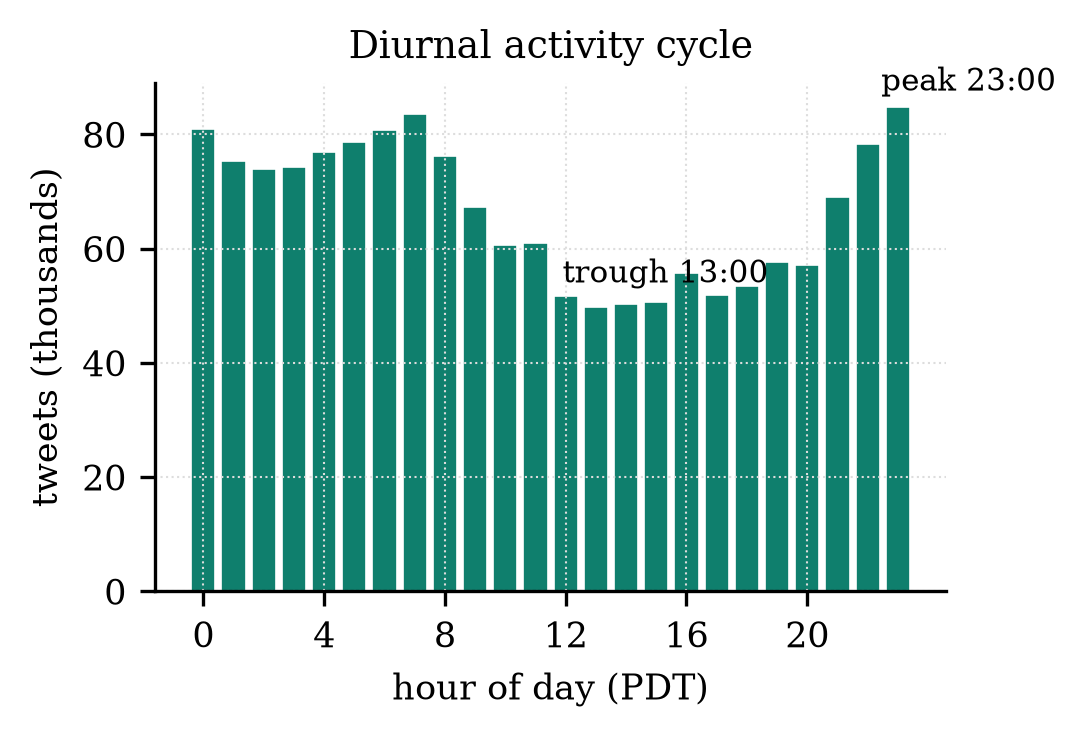
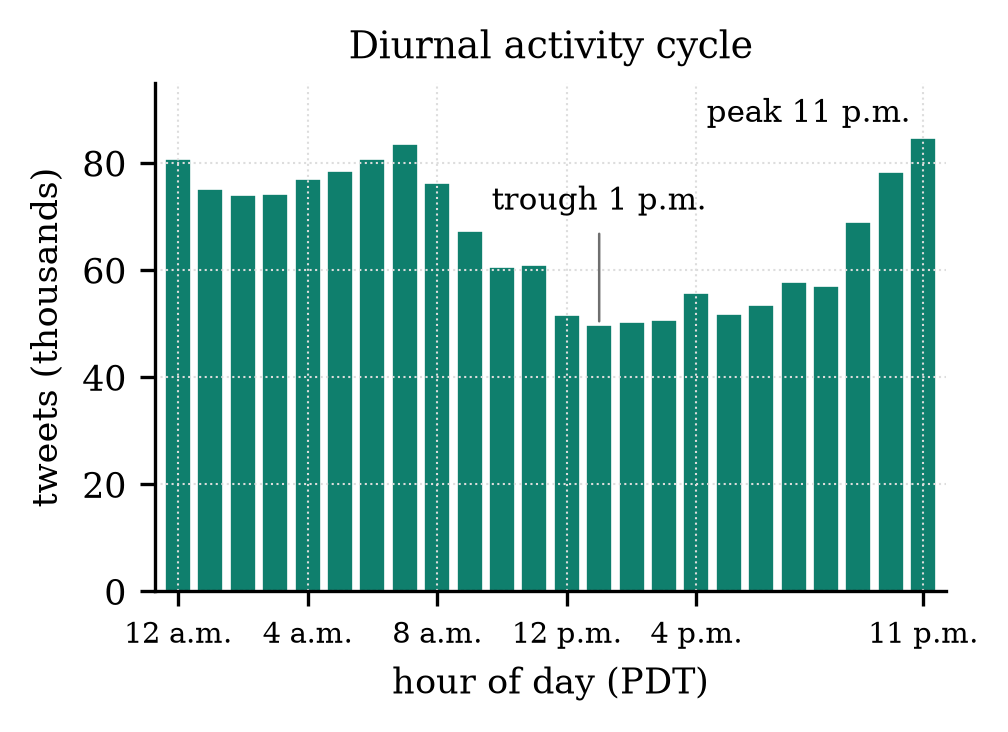
Diurnal figure: a.m./p.m. hour labels, trough label lifted off bars (pop-world-model-sim-wfm)

diff --git a/scripts/paper_figures.py b/scripts/paper_figures.py
@@ -62,16 +62,31 @@ ax.set_title("Per-user tweet counts (1.6M tweets, 659,775 users)")
 save(fig, "fig1_user_distribution")
 
 # ---- fig 2: diurnal cycle ----
+def ampm(h):
+    """0 -> '12 a.m.', 13 -> '1 p.m.', 23 -> '11 p.m.'"""
+    h = int(h) % 24
+    return f"{(h % 12) or 12} {'a.m.' if h < 12 else 'p.m.'}"
+
+
 fig, ax = plt.subplots(figsize=(FIGW, 2.2))
 hours = np.arange(24)
 vol = np.array(stats["by_hour"]) / 1000
 ax.bar(hours, vol, color=POS, width=.8, edgecolor="white", linewidth=.4)
 pk, tr = int(np.argmax(vol)), int(np.argmin(vol))
-ax.annotate(f"peak {pk}:00", (pk, vol[pk]), textcoords="offset points", xytext=(-4, 4), fontsize=7.5)
-ax.annotate(f"trough {tr}:00", (tr, vol[tr]), textcoords="offset points", xytext=(-8, 6), fontsize=7.5)
+ax.annotate(f"peak {ampm(pk)}", (pk, vol[pk]), textcoords="offset points", xytext=(-3, 2),
+            fontsize=7.5, ha="right", va="bottom")
+ax.set_ylim(0, vol.max() * 1.12)
+# Trough label floats in the clear space above the neighbouring bars (not over
+# them) and points down to the trough bar with a thin leader.
+ax.annotate(f"trough {ampm(tr)}", (tr, vol[tr]), textcoords="offset points", xytext=(0, 26),
+            fontsize=7.5, ha="center", va="bottom",
+            arrowprops=dict(arrowstyle="-", color=GRY, lw=.6, shrinkB=1))
 ax.set_xlabel("hour of day (PDT)")
 ax.set_ylabel("tweets (thousands)")
-ax.set_xticks(range(0, 24, 4))
+ticks = [0, 4, 8, 12, 16, 23]  # last tick is the 11 p.m. peak, not 8 p.m.
+ax.set_xticks(ticks)
+ax.set_xticklabels([ampm(h) for h in ticks], fontsize=7)
+ax.set_xlim(-.7, 23.7)
 ax.set_title("Diurnal activity cycle")
 save(fig, "fig2_diurnal")
 

diff --git a/docs/paper/popsim.tex b/docs/paper/popsim.tex
@@ -162,8 +162,8 @@ negative/positive labels. Figure~\ref{fig:dist} shows the heavy-tailed per-user
 activity distribution. We define the \textbf{persona cohort} as the 6{,}245
 users with at least 20 tweets (226{,}202 tweets; mean 36.2, median 28 per
 user; mean per-user activity span ${\sim}50$ days). The corpus retains a strong
-diurnal rhythm (Figure~\ref{fig:diurnal}), with a peak at 23:00 and a trough
-at 13:00 PDT, usable for calibrating agent posting schedules. Selection among candidate
+diurnal rhythm (Figure~\ref{fig:diurnal}), with a peak at 11\,p.m.\ and a trough
+at 1\,p.m.\ PDT, usable for calibrating agent posting schedules. Selection among candidate
 corpora was itself empirical: the Community Archive holds only 363 accounts;
 the Archive Team 1\% stream rarely observes a user 20 times; ID-only corpora
 cannot be hydrated. Sentiment140 maximizes the number of distinct humans with
